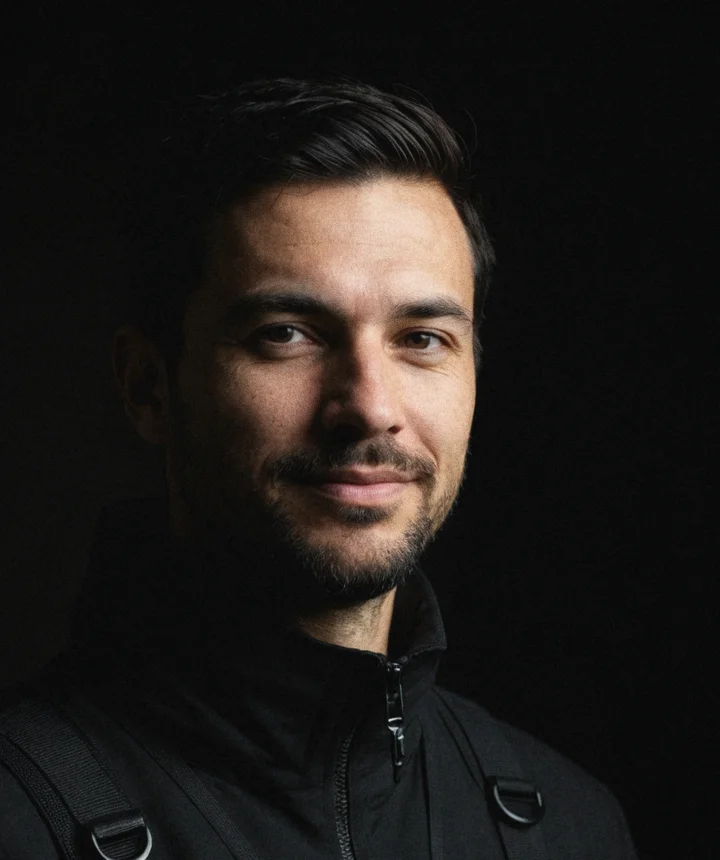
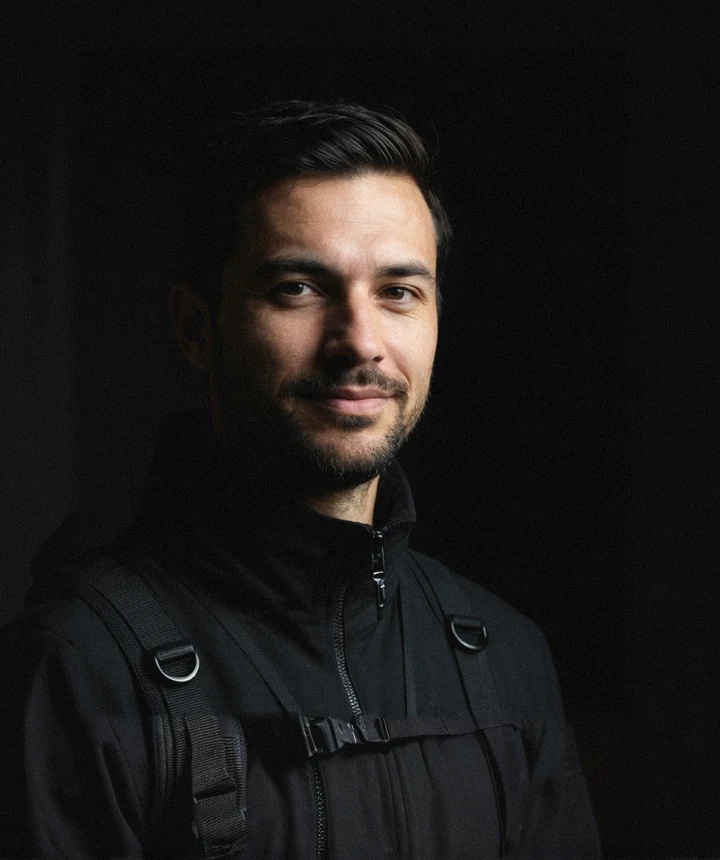
Team fallback: Alex and Kate reframed, as on wetr.io
Same files as wetr.io 3d13fc6; Kate's 24% objectPosition is gone there too.

diff --git a/components/sections/Team.tsx b/components/sections/Team.tsx
@@ -4,8 +4,9 @@ import type { Member } from "@/lib/studio";
 import { Reveal } from "../Reveal";
 import { Rich } from "../Rich";
 
-/* Per-photo framing, as on wetr.io: Kate sits higher in her frame than the other two. Keyed by name, as the admin stores it. */
-const FRAMING: Record<string, string> = { Kate: "50% 24%" };
+/* Per-photo framing, as on wetr.io: the files are framed eyes-on-one-line, so every card uses the centred crop today.
+   A photo that sits differently gets an objectPosition here. Keyed by name, as the admin stores it. */
+const FRAMING: Record<string, string> = {};
 
 /** The people, as on wetr.io (Kirill, 31.10): portrait cards with the name and role over a dark fade. */
 export function Team({ copy, members }: { copy: Content["team"]; members: Member[] }) {
